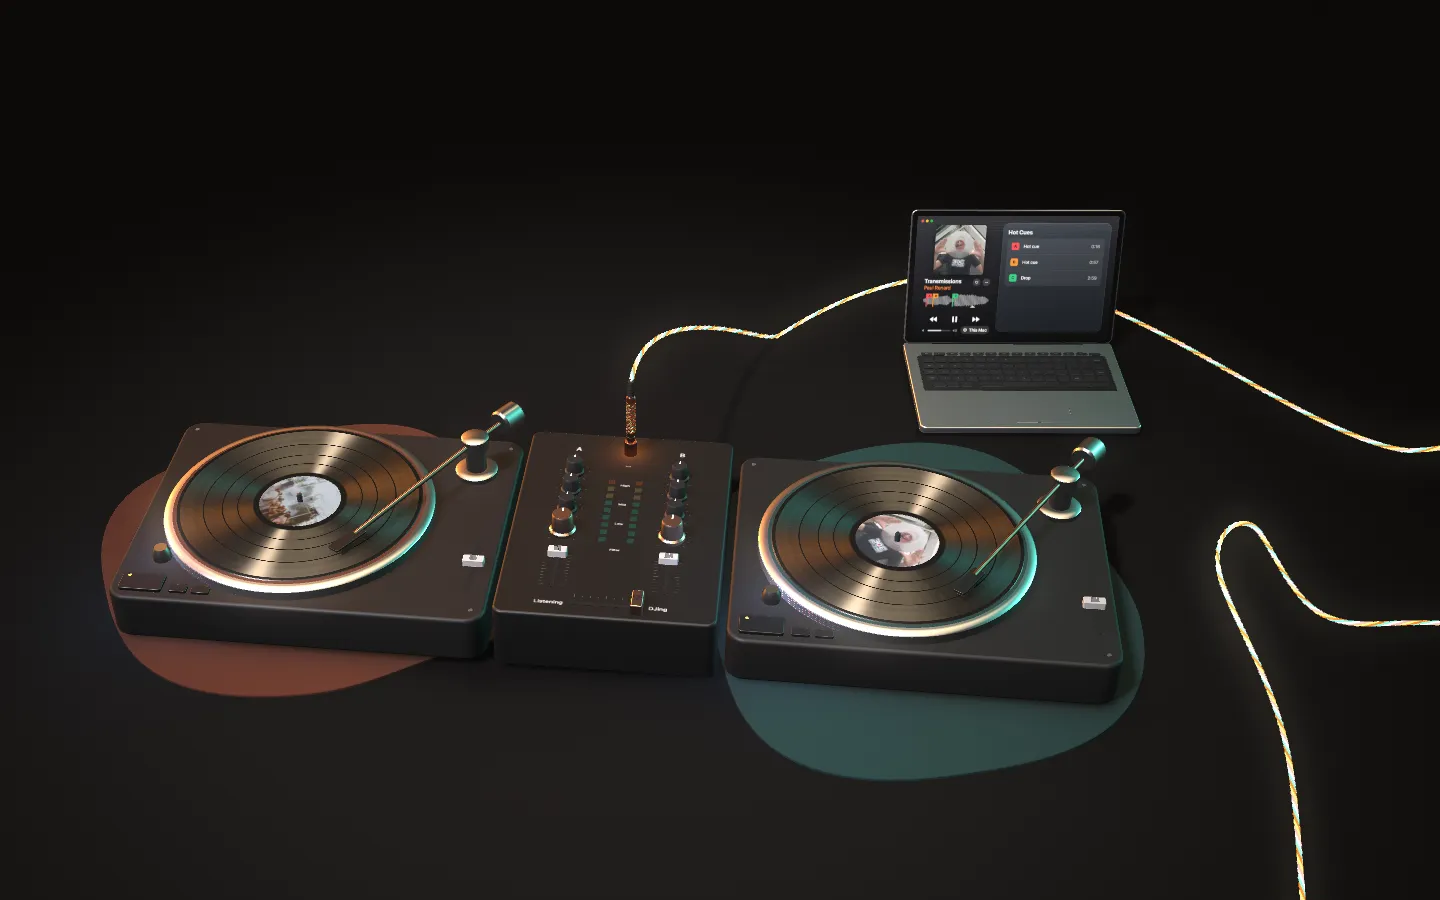
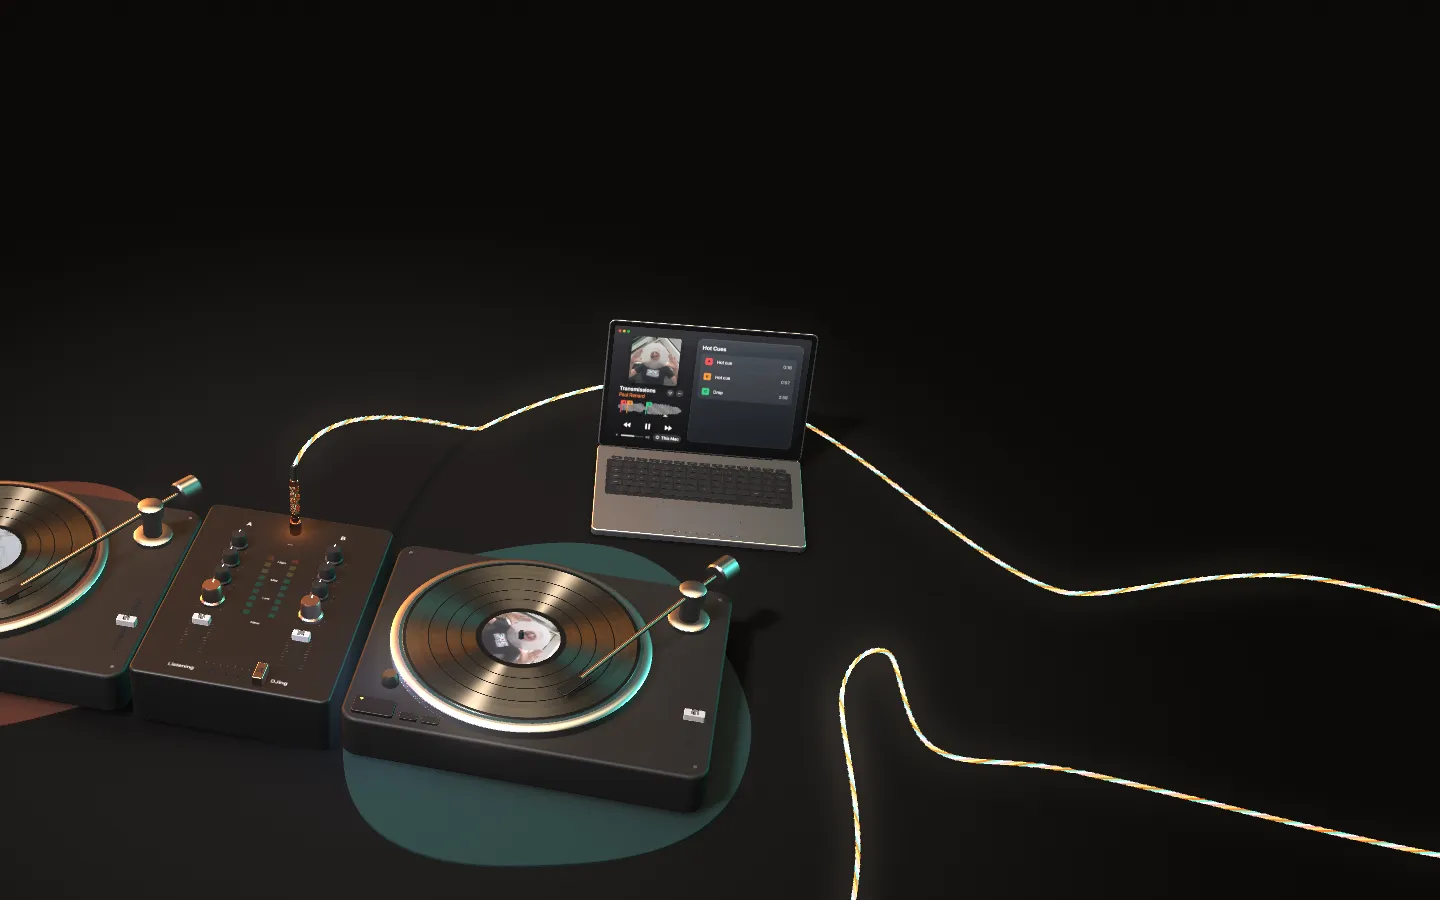
Website: DJ hero and decks copy clear of the jack and the cable, captures pre-rastered at idle

diff --git a/docs/assets/app.js b/docs/assets/app.js
@@ -50,8 +50,8 @@ function still() {
 
 // MARK: Shots
 const SHOT = {
-  open0: { l: [0.035, 0.158, -0.14, 13, 27, 0.4, 0.2, -0.08], p: [0.026, 0.155, -0.14, 10, 30, 0.215, 0, -0.4] },
-  open1: { l: [0.014, 0.14, -0.14, 11, 29, 0.31, 0.2, 0.02], p: [0.006, 0.138, -0.14, 6, 31, 0.15, 0, -0.42] },
+  open0: { l: [0.035, 0.158, -0.14, 13, 27, 0.4, 0, -0.08], p: [0.026, 0.155, -0.14, 10, 30, 0.215, 0, -0.4], sx: 0.2 },
+  open1: { l: [0.014, 0.14, -0.14, 11, 29, 0.31, 0, 0.02], p: [0.006, 0.138, -0.14, 6, 31, 0.15, 0, -0.42], sx: 0.2 },
   hero: { l: [0, 0.03, 0, 0, 42, 1.63, 0, -0.58], p: [0, 0.05, 0, 0, 58, 0.66, 0, -0.42], yawX: 10, px: 0.44 },
   crate: { l: [-0.33, 0, 1.23, 0, 62, 2.4, 0, 0], p: [-0.4, 0, 1.23, 0, 66, 1.6, 0, 0.34], sx: 0.33, pw: 0.5 },
   phone: { l: [0.42, 0.008, 1.0, 0, 74, 0.3, 0, 0.03], p: [0.42, 0.008, 1.0, 0, 82, 0.115, 0, 0.3], sx: 0.24, pw: 0.35, ww: 1.05 },
@@ -63,7 +63,7 @@ const SHOT = {
   rigA: { l: [0, 0.06, 0, -20, 34, 1.36, 0, 0.44], p: [-0.14, 0.06, 0, -24, 62, 0.62, 0, 0.36], sx: 0.08, yawX: 24 },
   rigC: { l: [0, 0.05, 0, 0, 39, 1.5, 0, 0.3], p: [0, 0.05, 0, 40, 40, 0.62, 0, 0.3], yawX: 14 },
   out: { l: [0.035, 0.158, -0.14, 13, 27, 0.4, 0.2, -0.08], p: [0.026, 0.155, -0.14, 10, 30, 0.215, 0, 0.36] },
-  dj: { l: [0, 0.03, 0, 6, 40, 1.78, -0.14, -0.62], p: [0.31, 0.05, 0, 0, 58, 0.55, 0, -0.6] },
+  dj: { l: [0.1, 0.03, -0.1, 14, 40, 1.95, -0.5, -0.82], p: [0.31, 0.05, 0, 0, 58, 0.55, 0, -0.6] },
   pad: { l: [1.27, 0.01, 0.2, -12, 64, 0.7, 0.2, 0.05], p: [1.27, 0.01, 0.2, -12, 70, 0.3, 0, 0.3], pw: 0.5, ww: 1 },
   mac: { l: [1.56, 0.1, 0.75, -12, 30, 0.68, 0.2, 0.05], p: [1.56, 0.1, 0.75, -12, 34, 0.36, 0, 0.3], pw: 0.5 },
   macc: { l: [1.56, 0.105, 0.75, -7, 14, 0.44, 0, -0.02], p: [1.56, 0.105, 0.75, -7, 20, 0.3, 0, 0.3], pw: 0.27 },

diff --git a/docs/assets/screens.js b/docs/assets/screens.js
@@ -1319,6 +1319,9 @@ export function createScreens({ base = 'assets/', opaque = false, budget = 0 } =
   const imgs = new Map();
   const S = { sec: 0, whole: -1, p: 0, idx: 0, row: 0, el: '0:00', left: `-${fmt(D)}`, now: `${T[0][2]} - ${T[0][1]}` };
   const all = {};
+  const scratchCanvas = document.createElement('canvas');
+  scratchCanvas.width = 960; scratchCanvas.height = 600;
+  const scratch = scratchCanvas.getContext('2d');
   const load = file => {
     const r = { im: new Image(), ok: false, users: new Set() };
     r.im.decoding = 'async';
@@ -1445,7 +1448,7 @@ export function createScreens({ base = 'assets/', opaque = false, budget = 0 } =
       Object.assign(sc.st, state);
       targets(sc);
     },
-    preload(files) { for (const f of files) if (!imgs.has(f)) load(f); },
+    preload(files) { for (const f of files) if (!imgs.has(f)) { load(f); imgs.get(f).p.then(() => { const r = imgs.get(f); if (r.ok) cover(scratch, r.im, 0, 0, 960, 600); }); } },
     time(sec) {
       sec = clamp(sec, 0, D - 1);
       S.sec = sec;

diff --git a/docs/assets/site.css b/docs/assets/site.css
@@ -113,6 +113,7 @@ html.live[data-side] .side { display: grid; }
 .live .side > :is(h1, h2, .h2, p), .live .caps > .cap, .live .try > p, .live .foot p { width: fit-content; max-width: 100%; }
 .live .hero .side { top: clamp(72px, 10.5vh, 128px); transform: none; width: min(41vw, 39rem); gap: .8rem; }
 .live .listen .side { width: min(28vw, 27rem); }
+.live .listen .side.b { top: 37%; }
 .live .output .side { width: min(26vw, 25rem); }
 .live .decks .side.a { top: auto; bottom: clamp(28px, 7vh, 72px); transform: none; width: min(43vw, 40rem); }
 .live .decks .side.b { width: min(26vw, 25rem); }
